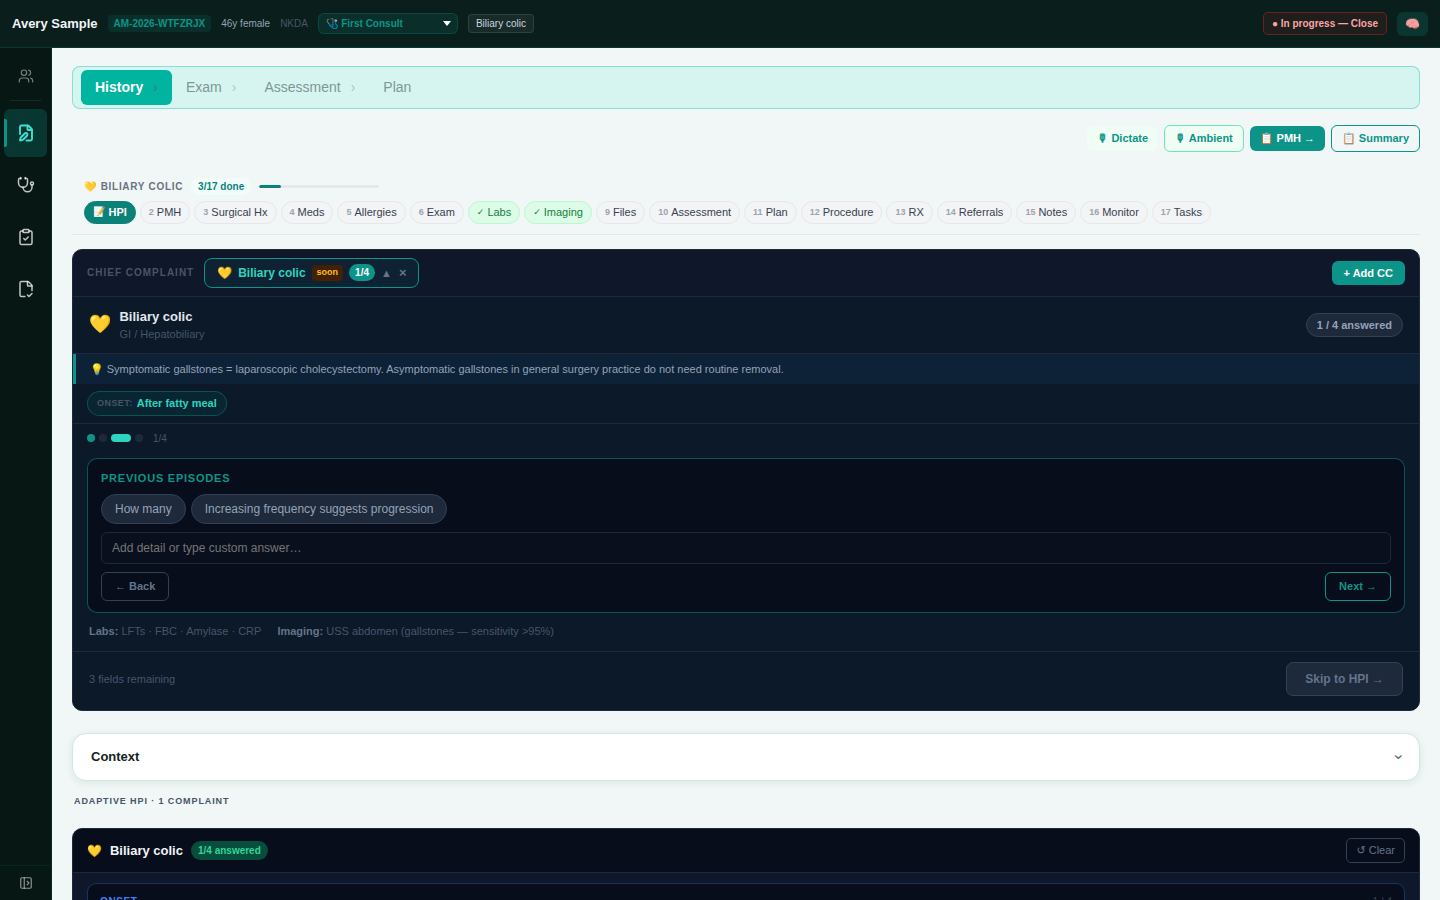
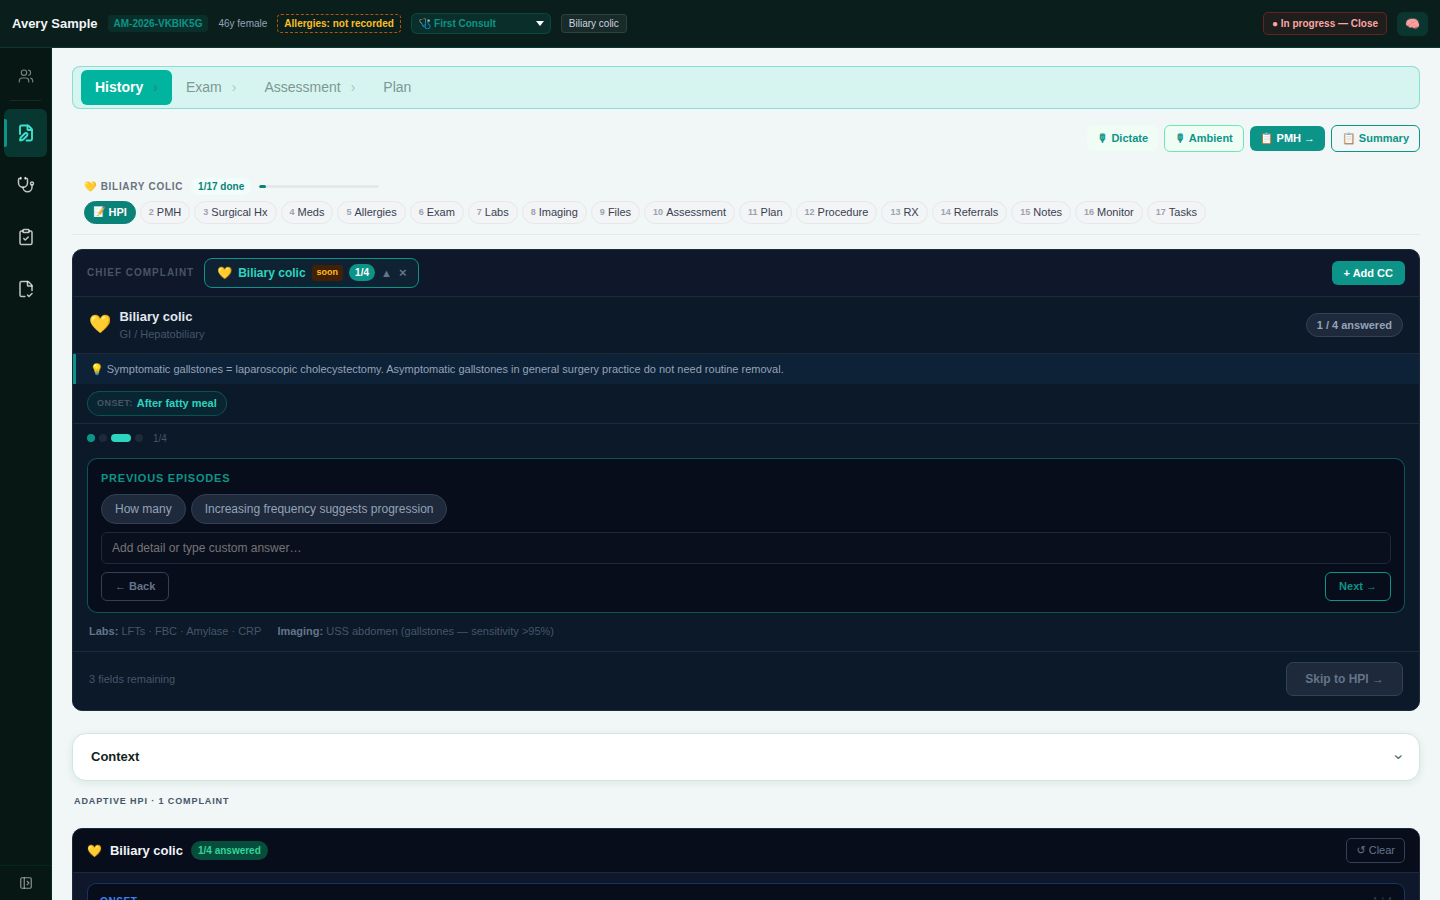
e2e: UX walkthrough follows the safety fixes; screenshots re-taken
e2e/ux-walkthrough.mjs now ticks the suggested labs (LFTs, FBC) and
imaging (USS abdomen) and orders them, confirms the suggested diagnosis,
and closes through the in-app sign-off (review tick, then Sign & close).
Its notes record what the review found: "Allergies: not recorded" in
the header, no exam system documented and 5 "Not examined" on first
open, 4 tests suggested for Biliary colic and none ordered until
ticked, the diagnosis offered as a suggestion, 1 examined system and
only the 3 ticked tests in the note, and the sign-off's missing list.

Screenshots and ux-metrics-web.json in docs/clinical-validation/ux/web
re-taken on desktop 1440x900 and iPad 1024x1366 (now 32 per viewport).
UX-REPORT.md gets a status note: which findings are fixed, and that
its D/nn, P/nn references point to the original set at ad11177.

Claude-Session: https://claude.ai/code/session_016A3tWnEtgb9zgucmuW4UJr

Changed region(s): [[0.3125, 0.2178, 0.8438, 0.2489], [0.0938, 0.0, 0.4375, 0.0311]]

diff --git a/docs/clinical-validation/UX-REPORT.md b/docs/clinical-validation/UX-REPORT.md
@@ -3,6 +3,14 @@
 Prepared for Dr Dawit Kabiye as part of consultation testing. Review date 25 September 2026.
 Branch `ux-review`, based on `claude/pr-37-gbg22z` at `60e2b15`.
 
+> **Status (branch `ux-safety-fixes`).** C1–C4 and M8 are fixed on the web, and M1–M3 on iOS
+> (M3: NEWS2 in the iPad header and readable on iPhone; the rest of the proposed safety strip is
+> not done). The web screenshots in `docs/clinical-validation/ux/web/` were re-taken after the
+> fixes, and the walkthrough now ticks suggested tests and confirms the suggested diagnosis, so
+> the numbering changed after step 16. The `D/nn` and `P/nn` references below point to the
+> original set, which is in git history at commit `ad11177`. Encounters saved before the fixes
+> keep any content that was filled automatically; it is not rewritten.
+
 ## 1. Scope and method
 
 **What was reviewed.** The surgeon's core outpatient task, a first-visit surgical consultation:
